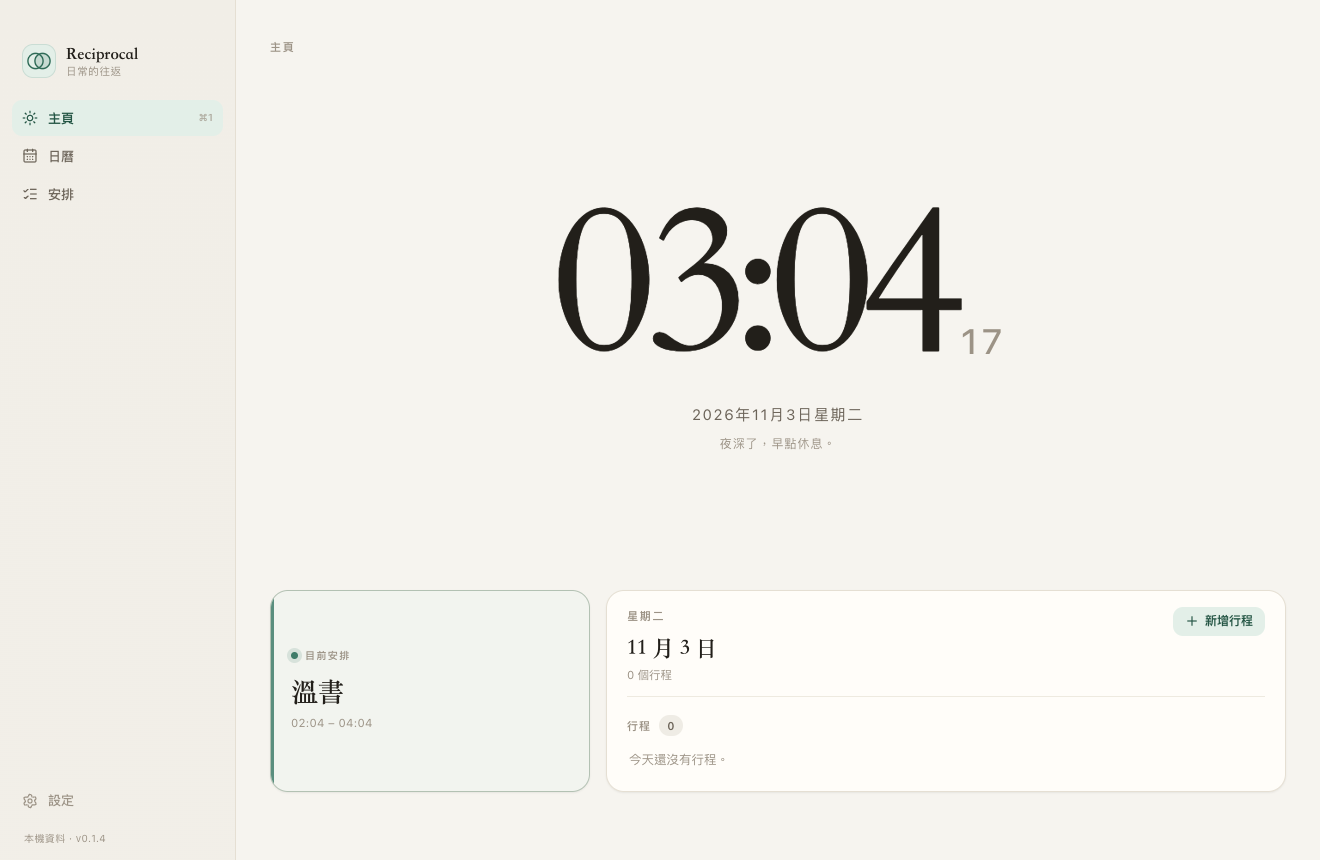
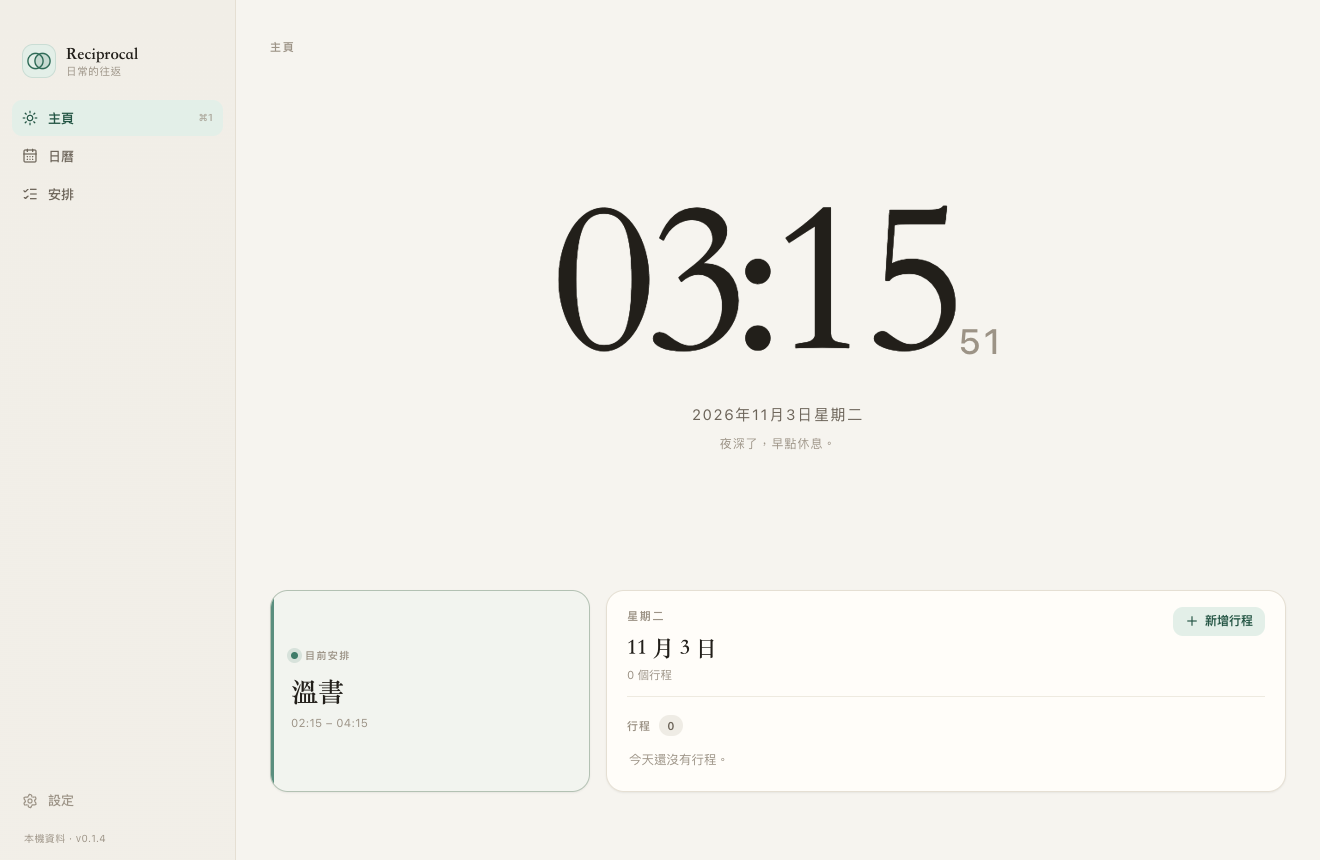
Release 0.1.5: hide due tasks from calendar

Changed region(s): [[0.5902, 0.2419, 0.7455, 0.4233], [0.2485, 0.8163, 0.2795, 0.8465]]

diff --git a/src/views/Calendar.tsx b/src/views/Calendar.tsx
@@ -81,16 +81,6 @@ export const CalendarView: React.FC = () => {
     return map;
   }, [data?.events]);
 
-  const outstandingTasks = useMemo(() => {
-    const map = new Map<string, number>();
-    for (const task of data?.tasks ?? []) {
-      if (task.status !== "done" && task.dueDate) {
-        map.set(task.dueDate, (map.get(task.dueDate) ?? 0) + 1);
-      }
-    }
-    return map;
-  }, [data?.tasks]);
-
   const cardCalendarFilter = useMemo(() => {
     const raw = data?.settings.appleCardCalendarIds;
     if (!raw) return null;
@@ -121,10 +111,6 @@ export const CalendarView: React.FC = () => {
   const monthEvents = (data?.events ?? []).filter((event) =>
     isSameMonth(new Date(`${event.date}T00:00:00`), month),
   );
-  const monthTasks = (data?.tasks ?? []).filter(
-    (task) => task.dueDate && isSameMonth(new Date(`${task.dueDate}T00:00:00`), month),
-  );
-
   const openNewEvent = (event: EventItem | null = null) => {
     setEditingEvent(event);
     setEventFormOpen(true);
@@ -137,7 +123,7 @@ export const CalendarView: React.FC = () => {
           <p className="page__eyebrow">日曆</p>
           <h1 className="page__title">{formatMonthTitle(month)}</h1>
           <p className="page__subtitle">
-            {monthEvents.length} 個行程 · {monthTasks.length} 項到期安排 · 左側顯示下一個行程的倒數
+            {monthEvents.length} 個行程 · 左側顯示下一個行程的倒數
           </p>
         </div>
         <div className="page__actions">
@@ -261,7 +247,6 @@ export const CalendarView: React.FC = () => {
               {grid.map((date) => {
                 const key = iso(date);
                 const events = eventsByDate.get(key) ?? [];
-                const taskCount = outstandingTasks.get(key) ?? 0;
                 const classes = [
                   "day",
                   !isSameMonth(date, month) ? "day--out" : "",
@@ -283,9 +268,6 @@ export const CalendarView: React.FC = () => {
                   >
                     <span className="day__top">
                       <span className="day__number">{date.getDate()}</span>
-                      {taskCount > 0 ? (
-                        <span className="day__task-dot" title={`${taskCount} 項到期安排`} />
-                      ) : null}
                     </span>
                     <span className="day__events">
                       {events.slice(0, 3).map((event) => (
@@ -309,9 +291,6 @@ export const CalendarView: React.FC = () => {
             <div className="calendar__legend">
               <span>
                 <i className="legend-dot legend-dot--event" /> 行程
-              </span>
-              <span>
-                <i className="legend-dot legend-dot--task" /> 到期安排
               </span>
               <span className="calendar__legend-tip">行程明細在主頁</span>
             </div>

diff --git a/src-tauri/src/update.rs b/src-tauri/src/update.rs
@@ -179,7 +179,7 @@ mod tests {
     #[test]
     #[ignore = "requires network and an existing GitHub release"]
     fn live_github_check() {
-        let result = check("0.1.4").expect("GitHub check failed");
+        let result = check("0.1.5").expect("GitHub check failed");
         eprintln!("{result:?}");
         assert!(!result.source.is_empty());
     }

diff --git a/README.md b/README.md
@@ -195,7 +195,7 @@ npm run build
 # 互動檢查（需要 dev server）：主頁時鐘、快速新增、看板拖曳、
 # modal 定位、主題切換與持久化
 npm run dev          # 另開一個終端
-npm run shots        # 68 checks（需要本機 Chrome）
+npm run shots        # 70 checks（需要本機 Chrome）
 ```
 
 實機驗證方式：以 `RECIPROCAL_DATA_DIR` 啟動建置後的 `.app`，確認 SQLite 建表與種子資料寫入，並從日誌確認 WebView 載入後成功呼叫 `load_app`（`ui ready: 3 habits, 8 logs, 3 tasks`）。
